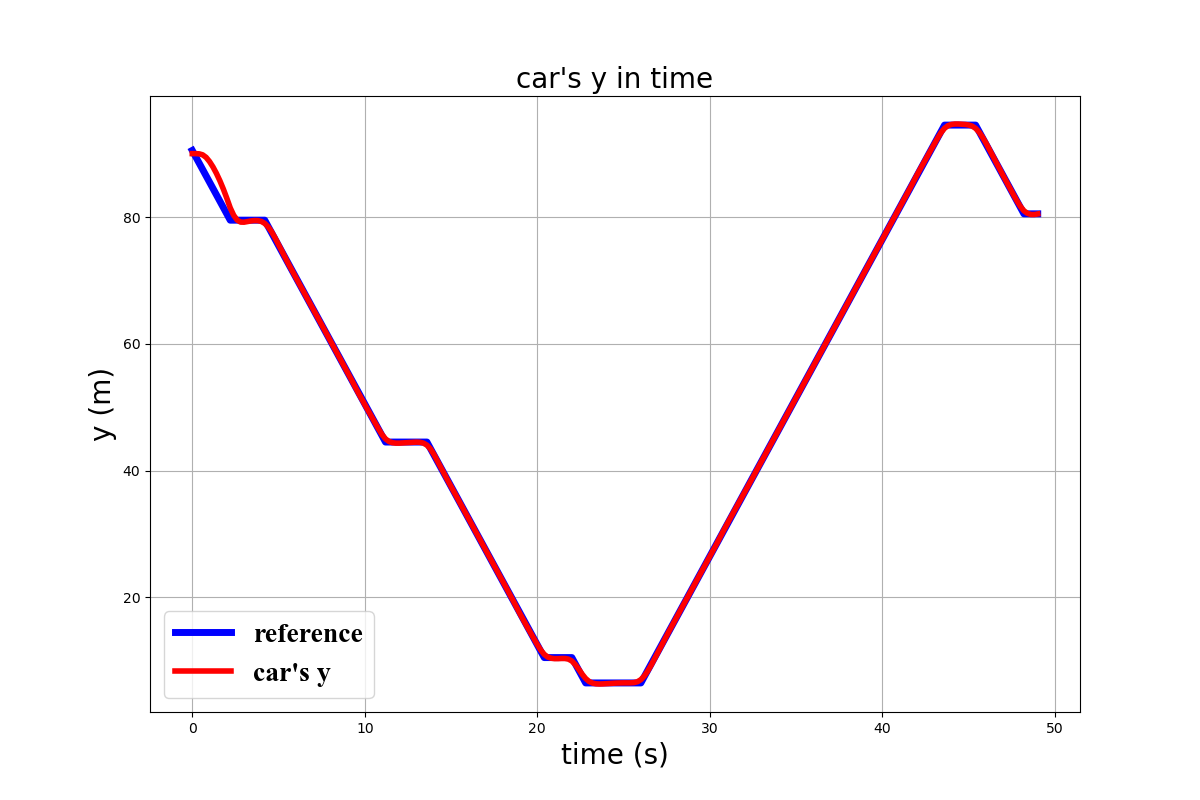
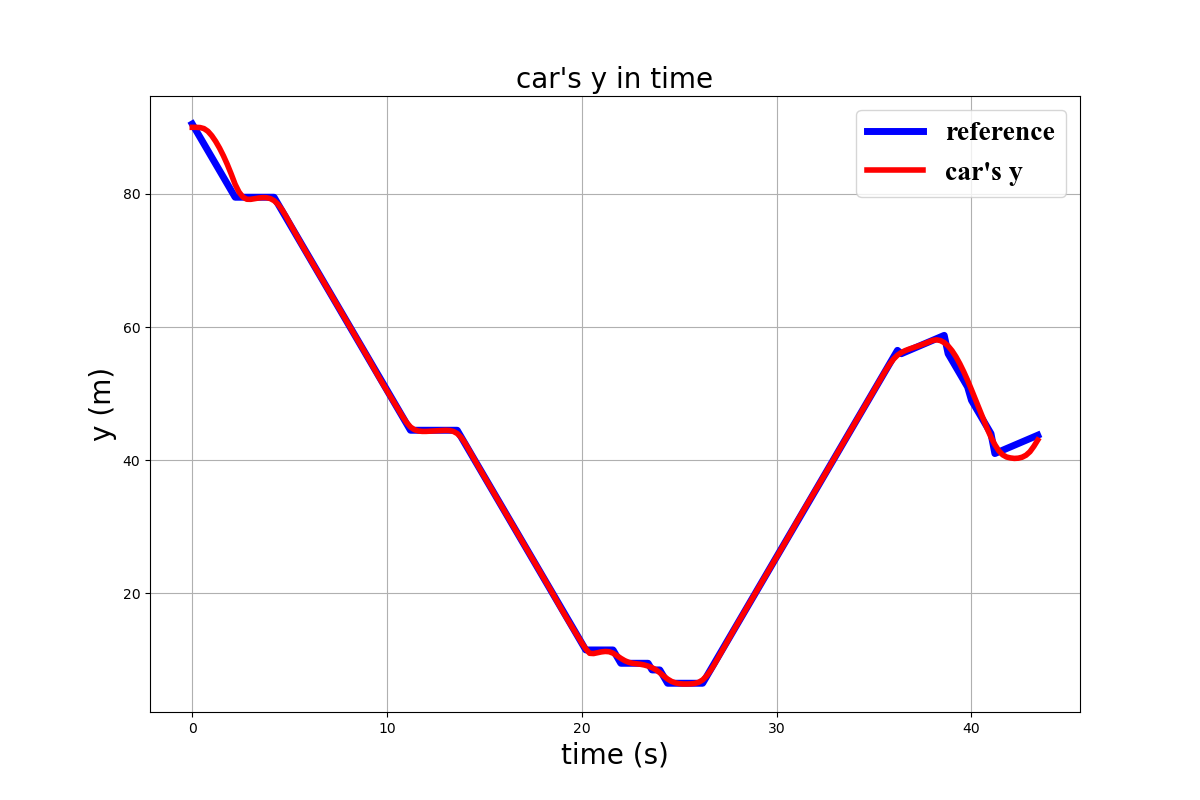
V3: changes to account parking, change to arg to add parking slot, refiing MPC controller

diff --git a/main_autopark_v3.py b/main_autopark_v3.py
@@ -16,7 +16,7 @@ if __name__ == '__main__':
     parser.add_argument('--psi_start', type=int, default=0, help='psi of start')
     # # parser.add_argument('--x_end', type=int, default=90, help='X of end') #to be removed since hard-coded
     # # parser.add_argument('--y_end', type=int, default=80, help='Y of end') #to be removed since hard-coded
-    # parser.add_argument('--parking', type=int, default=1, help='park position in parking1 out of 24') #to remvoe since parking slot randomized
+    parser.add_argument('--parking', type=int, default=1, help='park position in parking 1 out of 24 or <0 to have no empty slots') #to remvoe since parking slot randomized
 
     args = parser.parse_args()
     logger = DataLogger()
@@ -30,8 +30,9 @@ if __name__ == '__main__':
     # pathplanning margin : 5
 
     ########################## defining obstacles ###############################################
-    random_emptyslot = np.random.randint(-10,24)
-    parking1 = Parking1(24,original_end) # random parking slot selection ## of can be args.parking
+    # park_slot = args.parking
+    # park_slot = np.random.randint(-10,24)
+    parking1 = Parking1(10,original_end) # random parking slot selection ## of can be args.parking
     end,car_obs,env_obs = parking1.generate_obstacles() #car_obs is what car can see and env_obs is what see
 
 
@@ -65,9 +66,12 @@ if __name__ == '__main__':
     print('routing to end of carpark ...') 
     path = path_planner.plan_path(int(start[0]),int(start[1]),int(original_end[0]),int(original_end[1])) #path planning
     env.draw_path(path)
-    ################################## Travel to Original Goal ##################################################
+    ################################## Travel to original goal or empty parking slot ##################################################
     can_park = False #boolean to check if car can park
-    obstacle_found = False #boolean to check if obstacle is found
+    parkIsAstar = True
+    obstacle_found = False #boolean to check if obstacle is 
+    # end = [] #to store the parking slot location
+    current_pos = [] #to store the current position of the car
     counter = 0 #counter to check if car can park
     print('driving to destination ...')
     
@@ -78,28 +82,50 @@ if __name__ == '__main__':
         acc, delta = controller.optimize(my_car, path[:MPC_HORIZON]) #get acc and delta from controller of the first 5 points in path
         my_car.update_state(my_car.move(acc,  delta)) #update car state
         res = env.render(my_car.x, my_car.y, my_car.psi, delta) #render environment of the car 
-        logger.log(path[0], my_car, acc, delta) #log the data of car
+        logger.log(path[0], my_car, acc, delta) #log the data of current car state
         cv2.imshow('environment', res) #show the environment of car
         key = cv2.waitKey(1) 
+        
+        #if path has reached end of orinal end
         if path[0][0] -0.5 == original_end[0] and path[0][1] -0.5 == original_end[1]:
             print('~ No parking slots found, driver to take over ~')
             break
         
-        #TEWSITNTSNT SFWSDSDWEER
-        if counter > 150: ###TESTTTT NEEDD TO BE REPLACED WHEN CAN PARK IS TRUE
-            can_park = True #set can_park to true
-            current_pos = path[0]           
-            path = [] #clear path array
-            path = path_planner.plan_path(int(current_pos[0]),int(current_pos[1]),int(end[0]),int(end[1])) #path planning
-            env.draw_path(path)
+        #Eerouting to empty parking slot using A* path planning as parking
+        if counter > 100: ###TESTTTT NEEDD TO BE REPLACED WHEN CAN PARK IS TRUE
+            print('rerouting to empty parking slot ...')
+            if parkIsAstar: #using A* path planning to park car
+                current_pos = path[0] #get current position of car
+                # end = end #replace new end with empty parking slot
+                break
+            else: #using Q learning to park car
+                current_pos = path[0]
+                # end = end #replace new end with empty parking slot
+                break
+        if key == ord('s'):  #to save the imagee
+            cv2.imwrite('res.png', res*255)
             
         path = path[1:] #remove the first point in path
         counter += 1
-        
-        if key == ord('s'):  #to save the imagee
-            cv2.imwrite('res.png', res*255)
 
-    
+    ################################## Parking of car ##################################################
+    if parkIsAstar: #if  park to be done using A star is true
+        new_end, park_path, ensure_path1, ensure_path2 = path_planner.replan_park(int(current_pos[0]),int(current_pos[1]),int(end[0]),int(end[1]))
+        path = path_planner.plan_path(int(current_pos[0]),int(current_pos[1]),int(new_end[0]),int(new_end[1]))
+        path = np.vstack([path, ensure_path1])
+        env.draw_path(path)
+        env.draw_path(park_path)
+        final_path = np.vstack([path, park_path, ensure_path2])
+        for i,point in enumerate(final_path):
+            acc, delta = controller.optimize(my_car, final_path[i:i+MPC_HORIZON])
+            my_car.update_state(my_car.move(acc,  delta))
+            res = env.render(my_car.x, my_car.y, my_car.psi, delta)
+            logger.log(point, my_car, acc, delta)
+            cv2.imshow('environment', res)
+            key = cv2.waitKey(1)
+            if key == ord('s'):
+                cv2.imwrite('res.png', res*255)
+
     # zeroing car steer
     res = env.render(my_car.x, my_car.y, my_car.psi, 0)
     logger.save_data()

diff --git a/pathplanning_V3.py b/pathplanning_V3.py
@@ -256,65 +256,8 @@ class ParkPathPlanning:
         path = np.vstack([rx,ry]).T #transpose to [x,y] format
         return path[::-1] #return path in reverse order
 
-    # def update_q_table(self, state, action, reward, next_state):
-    #     alpha = 0.5  # learning rate
-    #     gamma = 0.9  # discount factor
-    #     self.q_table[state[0], state[1], action] = (1 - alpha) * self.q_table[state[0], state[1], action] + \
-    #                                                 alpha * (reward + gamma * np.max(self.q_table[next_state[0], next_state[1], :]))
-
-    # def get_action(self, state, epsilon):
-    #     if np.random.uniform(0, 1) < epsilon:
-    #         action = np.random.choice(4)  # Explore: select a random action
-    #     else:
-    #         action = np.argmax(self.q_table[state[0], state[1], :])  # Exploit: select the action with max value (Q) for the current state
-    #     return action
-
-    # def generate_park_scenario(self, sx, sy, gx, gy):
-    #     # Initialize parameters
-    #     epsilon = 0.3  # Exploration rate
-    #     num_episodes = 10000  # Number of episodes to train over
-
-    #     # Initialize state
-    #     state = [sx, sy]
-
-    #     for episode in range(num_episodes):
-    #         # Reset state at start of each episode
-    #         state = [sx, sy]
-
-    #         while state != [gx, gy]:  # While goal state not reached
-    #             # Choose action
-    #             action = self.get_action(state, epsilon)
-
-    #             # Take action and get reward, transit to next state
-    #             next_state, reward = self.take_action(state, action)
-
-    #             # Update Q-table
-    #             self.update_q_table(state, action, reward, next_state)
-
-    #             # Go to the next state
-    #             state = next_state
-
-    #     # After training, generate the optimal path
-    #     state = [sx, sy]
-    #     path = []
-
-    #     while state != [gx, gy]:
-    #         # Choose the best action
-    #         action = np.argmax(self.q_table[state[0], state[1], :])
-
-    #         # Take action and transit to next state
-    #         next_state, _ = self.take_action(state, action)
-
-    #         # Add state to path
-    #         path.append(state)
-
-    #         # Go to the next state
-    #         state = next_state
-
-    #     return path
-
     #### PARKING SCENARIO BY EXISITING CODEBASE ####
-    def generate_park_scenario(self,sx, sy, gx, gy):    
+    def replan_park(self,sx, sy, gx, gy):    
         rx, ry = self.a_star.planning(sx+self.margin, sy+self.margin, gx+self.margin, gy+self.margin)
         rx = np.array(rx)-self.margin+0.5
         ry = np.array(ry)-self.margin+0.5
@@ -508,3 +451,60 @@ class ParkPathPlanning:
             
             park_path = np.vstack([curve_x, curve_y]).T
             return park_path
+        
+            # def update_q_table(self, state, action, reward, next_state):
+    #     alpha = 0.5  # learning rate
+    #     gamma = 0.9  # discount factor
+    #     self.q_table[state[0], state[1], action] = (1 - alpha) * self.q_table[state[0], state[1], action] + \
+    #                                                 alpha * (reward + gamma * np.max(self.q_table[next_state[0], next_state[1], :]))
+
+    # def get_action(self, state, epsilon):
+    #     if np.random.uniform(0, 1) < epsilon:
+    #         action = np.random.choice(4)  # Explore: select a random action
+    #     else:
+    #         action = np.argmax(self.q_table[state[0], state[1], :])  # Exploit: select the action with max value (Q) for the current state
+    #     return action
+
+    # def generate_park_scenario(self, sx, sy, gx, gy):
+    #     # Initialize parameters
+    #     epsilon = 0.3  # Exploration rate
+    #     num_episodes = 10000  # Number of episodes to train over
+
+    #     # Initialize state
+    #     state = [sx, sy]
+
+    #     for episode in range(num_episodes):
+    #         # Reset state at start of each episode
+    #         state = [sx, sy]
+
+    #         while state != [gx, gy]:  # While goal state not reached
+    #             # Choose action
+    #             action = self.get_action(state, epsilon)
+
+    #             # Take action and get reward, transit to next state
+    #             next_state, reward = self.take_action(state, action)
+
+    #             # Update Q-table
+    #             self.update_q_table(state, action, reward, next_state)
+
+    #             # Go to the next state
+    #             state = next_state
+
+    #     # After training, generate the optimal path
+    #     state = [sx, sy]
+    #     path = []
+
+    #     while state != [gx, gy]:
+    #         # Choose the best action
+    #         action = np.argmax(self.q_table[state[0], state[1], :])
+
+    #         # Take action and transit to next state
+    #         next_state, _ = self.take_action(state, action)
+
+    #         # Add state to path
+    #         path.append(state)
+
+    #         # Go to the next state
+    #         state = next_state
+
+    #     return path

diff --git a/qlearningpark.py b/qlearningpark.py
@@ -1,0 +1,2 @@
+import numpy as np
+import math
